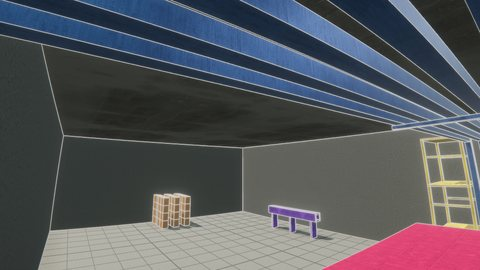
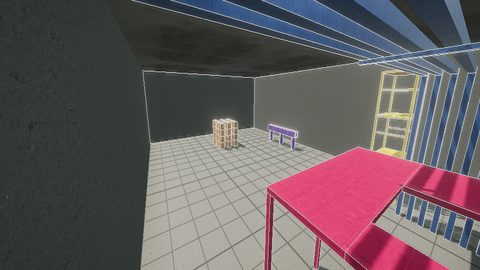
The Rig thumbnail shows the crate stack where it now stands
assets/sim-thumbs/rig.jpg (the Fly chooser's card) is re-shot with the
crates at x 5.5: under the pipes at the loft end, the tower, the crate
stack and the tunnel ahead. The framing is a named look spot, rigThumb
(sim-looks.js), so it can be shot again: sim.html?map=rig&quality=high&
look=rigThumb, UI hidden, 960x540 scaled to 480x270.

diff --git a/sim.html b/sim.html
@@ -936,7 +936,7 @@ import {
   stepBattery, resolveDuctHit, stepPropwash, indoorDraft, combineDisturbance,
   emptyWake, tagGhost, ghostSamples, washLevelFromStr, washStrFromLevel,
 } from "./sim-whoop.js?v=8f4237f25211";
-import {createLooks,decorateGate,pulseGate,QUALITY_KEY,CROSSHAIR_KEY,loadCrosshairOn,saveCrosshairOn} from "./sim-looks.js?v=6aab4f2cda07";
+import {createLooks,decorateGate,pulseGate,QUALITY_KEY,CROSSHAIR_KEY,loadCrosshairOn,saveCrosshairOn} from "./sim-looks.js?v=c59ed5512317";
 import {
   VIBES, vibeFor, resolveMapLighting, restyleCity, restyleLandmarks, decorateVibeGate, pulseCityGate, tickCityArt,
   decorateRigGate, pulseRigGate,

diff --git a/sim-looks.js b/sim-looks.js
@@ -118,6 +118,10 @@ export const LOOK_SPOTS = {
   rigTunnel: { pos: [19.5, 4.2, 19.6], target: [0, 4.2, 19.6] },
   rigTower: { pos: [-12, 9, 19.6], target: [-26, 15, 18.5] },
   rigSlit: { pos: [-31.675, 19.4, 9.5], target: [-31.675, 9.5, -7] },
+  // The Fly chooser's Rig thumbnail (assets/sim-thumbs/rig.jpg): under the
+  // pipes at the loft end, the tower, the crate stack and the tunnel ahead.
+  // sim.html?map=rig&quality=high&look=rigThumb, UI hidden, 960x540 to 480x270.
+  rigThumb: { pos: [-32.2, 15.05, -23.1], target: [15.75, 2.8, 5.25] },
   builder: { pos: [0, 14, 0.1], target: [0, 0, 0] },
 };
 
